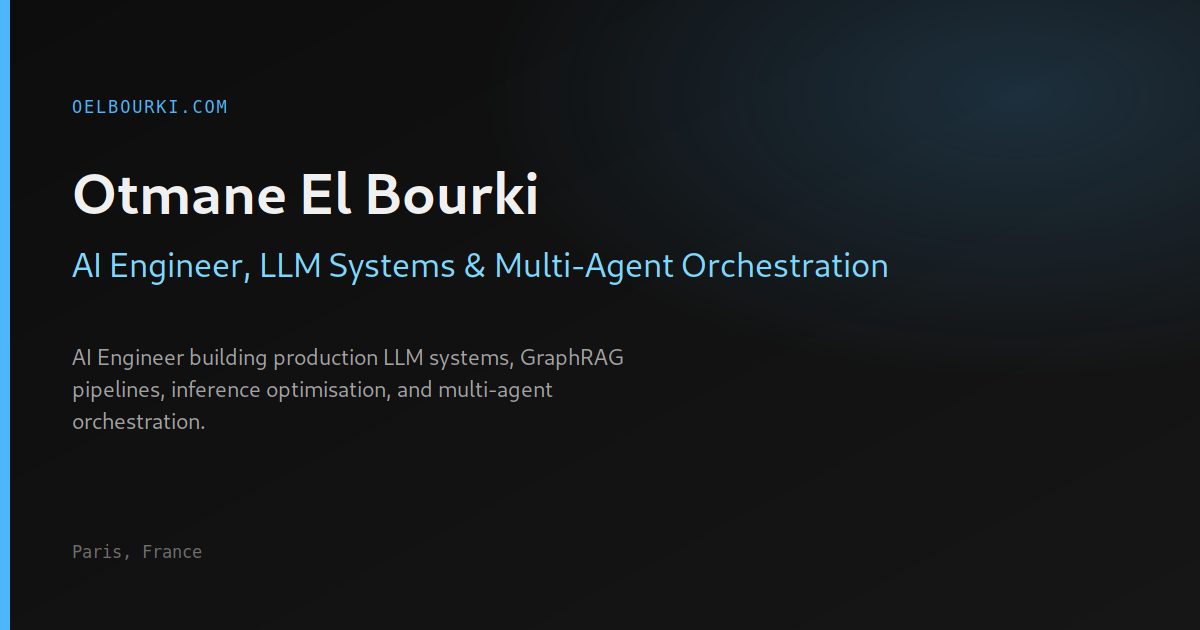
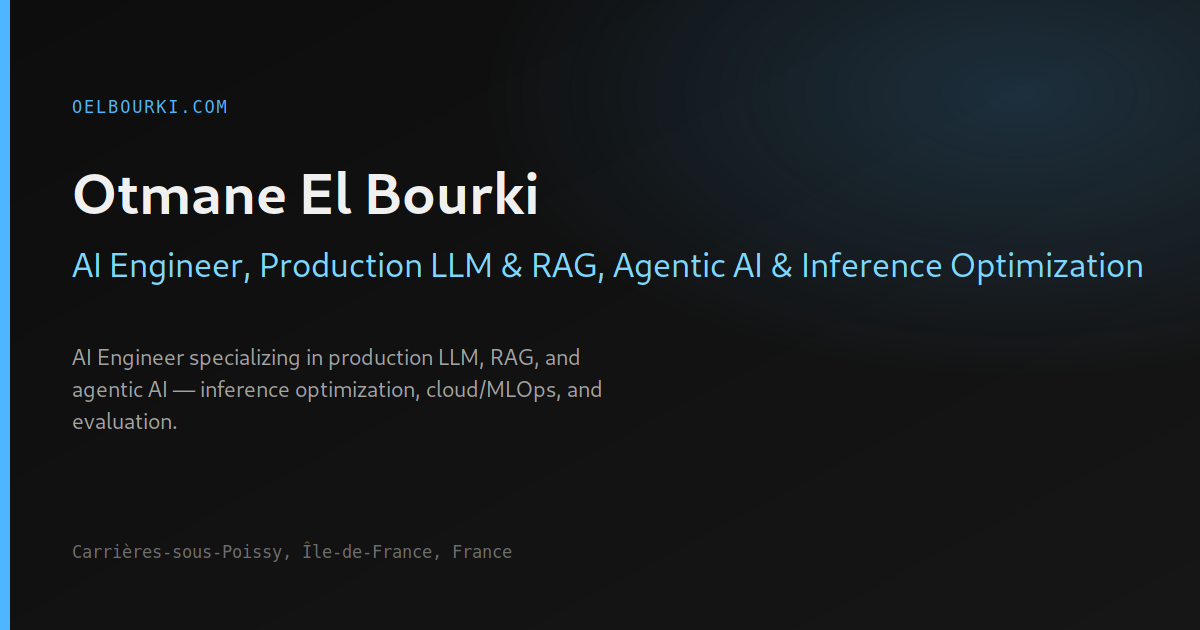
update info

diff --git a/gatsby-config.js b/gatsby-config.js
@@ -2,9 +2,10 @@ const config = require('./src/config');
 
 module.exports = {
   siteMetadata: {
-    title: 'Otmane El Bourki — AI Engineer, LLM Systems & Multi-Agent Orchestration',
+    title:
+      'Otmane El Bourki — AI Engineer, Production LLM & RAG, Agentic AI & Inference Optimization',
     description:
-      'AI Engineer building production LLM systems, GraphRAG pipelines, inference optimisation, and multi-agent orchestration. Based in Paris, France. Open to hybrid and remote roles.',
+      'AI Engineer specializing in production LLM, RAG, and agentic AI — inference optimization, cloud/MLOps, and evaluation. Based in Carrières-sous-Poissy, Île-de-France, France. Open to hybrid and remote roles · 1-month notice.',
     siteUrl: 'https://oelbourki.com', // No trailing slash allowed!
     image: '/og.png', // Path to your image you placed in the 'static' folder
     twitterUsername: '@oelbourki',
@@ -149,12 +150,7 @@ module.exports = {
         ],
       },
     },
-    {
-      resolve: `gatsby-plugin-google-analytics`,
-      options: {
-        trackingId: 'UA-45666519-2',
-      },
-    },
+    // Analytics: Universal Analytics (UA-) is shut down. Add GA4 later with gatsby-plugin-google-gtag + a G-XXXXXXXX ID.
     // Must be last: generates `_headers` and `_redirects` for Netlify
     `gatsby-plugin-netlify`,
   ],

diff --git a/scripts/generate-og.js b/scripts/generate-og.js
@@ -20,7 +20,7 @@ const roleLine = emDash ? title.split(emDash).slice(1).join(emDash).trim() : 'AI
 
 // Dedicated short blurb (location is drawn in the footer — don't repeat it)
 const blurb =
-  'AI Engineer building production LLM systems, GraphRAG pipelines, inference optimisation, and multi-agent orchestration.';
+  'AI Engineer specializing in production LLM, RAG, and agentic AI — inference optimization, cloud/MLOps, and evaluation.';
 
 const escapeXml = s =>
   String(s)
@@ -88,7 +88,7 @@ function buildSvg(width, height) {
 
   <text x="${pad}" y="${blurbStartY}" fill="#a3a3a3" font-family="system-ui, -apple-system, Segoe UI, sans-serif" font-size="${bodySize}">${blurbTspans}</text>
 
-  <text x="${pad}" y="${height - pad}" fill="#6e6e6e" font-family="ui-monospace, SFMono-Regular, Menlo, Consolas, monospace" font-size="${labelSize}">Paris, France</text>
+  <text x="${pad}" y="${height - pad}" fill="#6e6e6e" font-family="ui-monospace, SFMono-Regular, Menlo, Consolas, monospace" font-size="${labelSize}">Carrières-sous-Poissy, Île-de-France, France</text>
 </svg>`;
 }
 

diff --git a/src/components/sections/about.js b/src/components/sections/about.js
@@ -336,8 +336,8 @@ const About = () => {
         <StyledText>
           <div>
             <p>
-              AI Engineer with ~5 years of experience in AI — including ~3 years of professional experience
-              building production systems. Specialized in production LLM, RAG, and agentic AI, spanning retrieval,
+              AI Engineer with 4+ years of AI/ML experience — including 3+ years building production
+              systems. Specialized in production LLM, RAG, and agentic AI, spanning retrieval,
               model serving, inference optimization, orchestration, cloud deployment, and evaluation. Delivered 3×
               LLM inference throughput at 47% lower cost, built multi-agent systems for finance, and currently
               develop AI accelerators within ALTEN&apos;s A3. Founder of a 300-member AI engineering community.

diff --git a/src/components/head.js b/src/components/head.js
@@ -55,11 +55,11 @@ const Head = ({ title, description, image }) => {
     sameAs,
     worksFor: {
       '@type': 'Organization',
-      name: 'Alten',
+      name: 'ALTEN',
     },
     homeLocation: {
       '@type': 'Place',
-      name: 'Paris, France',
+      name: 'Carrières-sous-Poissy, Île-de-France, France',
     },
   };
 

diff --git a/src/components/sections/hero.js b/src/components/sections/hero.js
@@ -253,7 +253,7 @@ const Hero = () => {
       <div>
         <HeroTag>
           <span className="pulse-dot" aria-hidden />
-          Paris, France
+          Carrières-sous-Poissy, France · 1-month notice
         </HeroTag>
         <HeroName>Otmane El Bourki</HeroName>
         <HeroRole>

diff --git a/src/config.js b/src/config.js
@@ -1,7 +1,7 @@
 module.exports = {
   email: 'otmane.elbourki@gmail.com',
   phone: '+33 7 75 73 57 51',
-  location: 'Paris, France',
+  location: 'Carrières-sous-Poissy, Île-de-France, France',
 
   socialMedia: [
     {

diff --git a/content/projects/brain-mri.md b/content/projects/brain-mri.md
@@ -2,7 +2,7 @@
 date: '2021-05-18'
 order: 5
 title: 'Brain MRI Segmentation with U-Net'
-github: 'https://github.com/otmane-elbourki/brain-mri-segmentation'
+github: 'https://github.com/oelbourki/brain-mri-segmentation'
 external: 'https://brain-mri-segmentation.com'
 tech:
   - CNN

diff --git a/content/projects/ads-llm.md b/content/projects/ads-llm.md
@@ -2,7 +2,7 @@
 date: '2024-01-01'
 order: 2
 title: 'Ads-LLM'
-github: 'https://github.com/otmane-elbourki/ads-llm'
+github: 'https://github.com/oelbourki/ads-llm'
 external: 'https://ads-llm.com'
 tech:
   - LLM

diff --git a/content/jobs/alten/index.md b/content/jobs/alten/index.md
@@ -1,7 +1,7 @@
 ---
 date: '2026-06-01'
 title: 'AI Engineer · A3 (AI at ALTEN)'
-company: 'Alten'
+company: 'ALTEN'
 location: 'Rabat, Morocco'
 range: 'Jun 2026 – Present'
 url: 'https://www.alten.com/'
